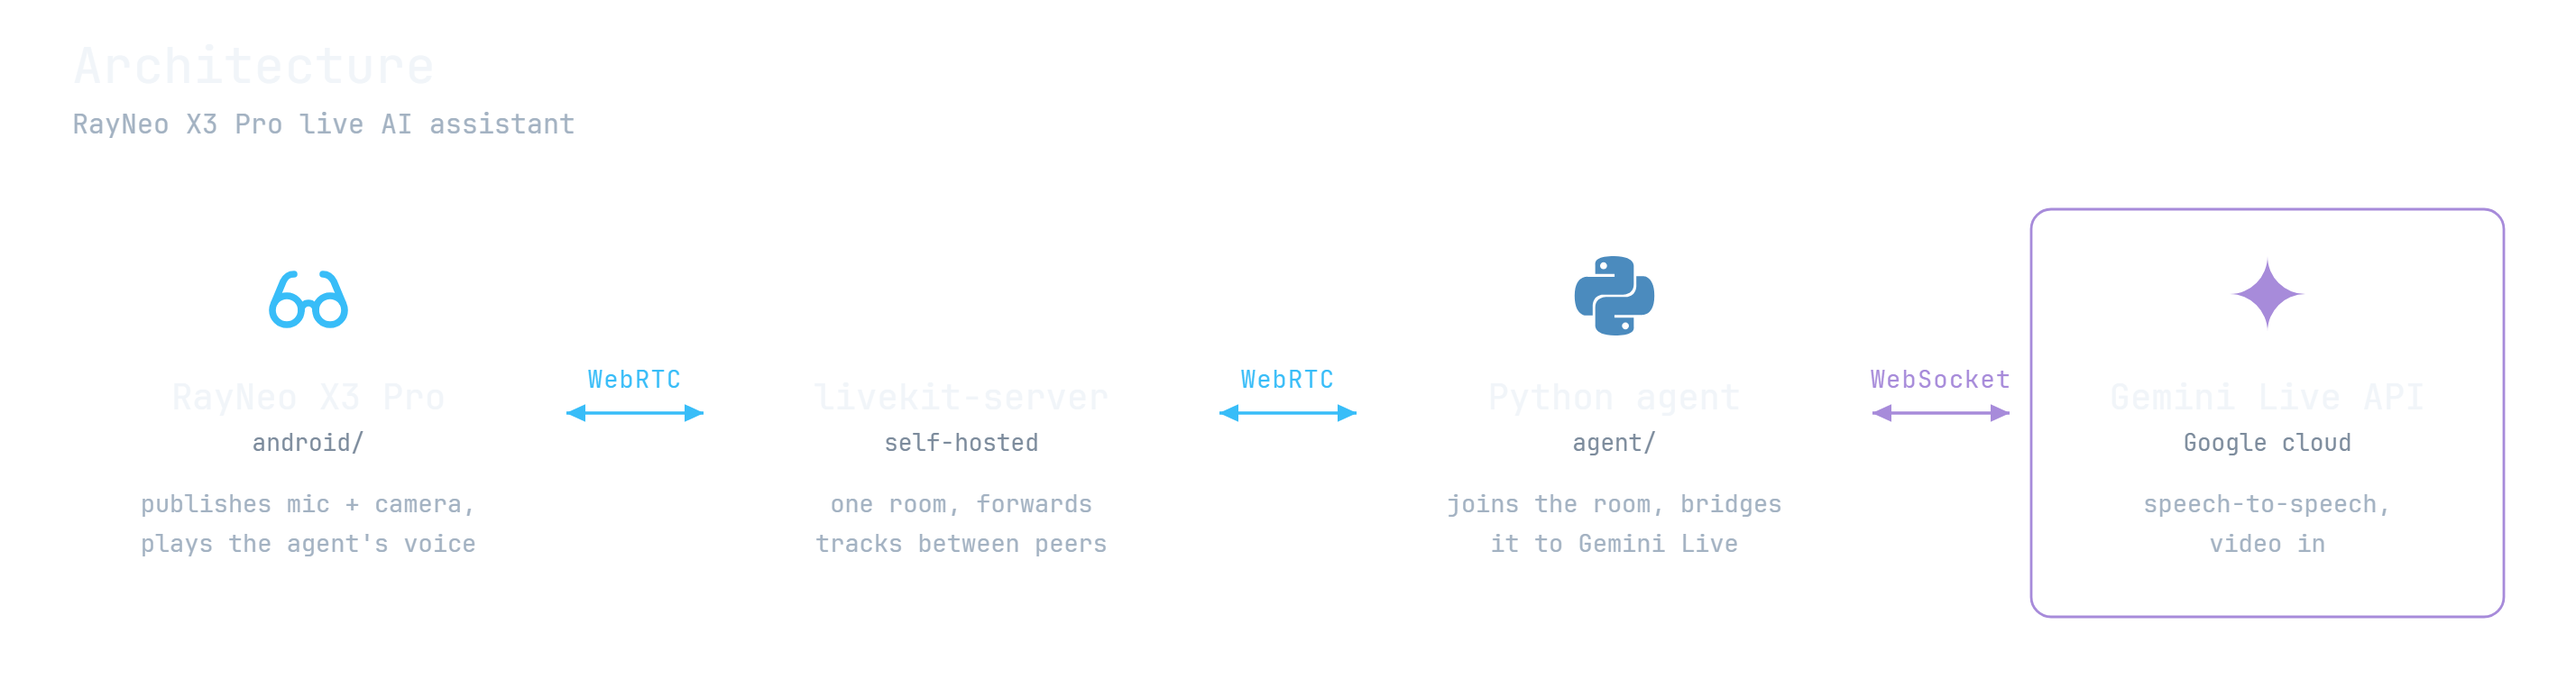
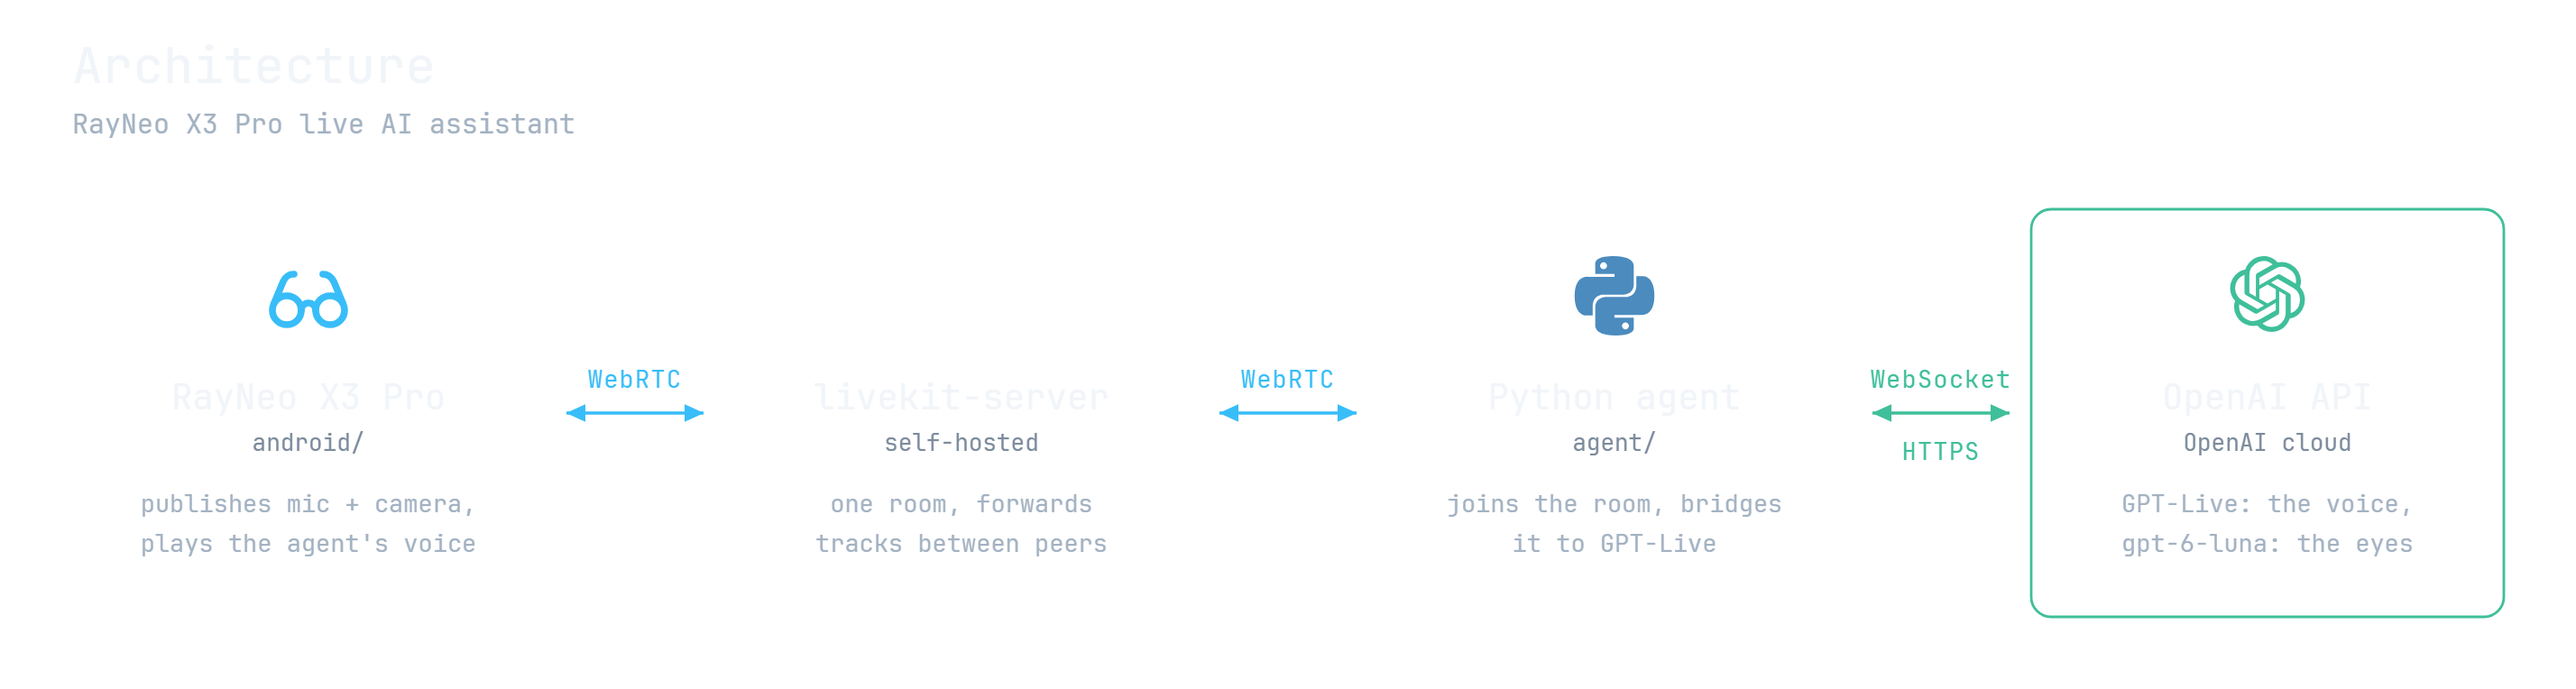
README diagram: OpenAI (GPT-Live voice, gpt-6-luna vision) in place of Gemini Live

diff --git a/docs/make_diagram.py b/docs/make_diagram.py
@@ -40,12 +40,12 @@ H = ROW_Y + CH + PAD
 THEMES = {
     "dark": dict(
         card="#ffffff0a", edge="#ffffff29", text="#f1f5f9", muted="#a3b2c2",
-        dim="#7c8b9c", accent="#38bdf8", gemini="#a78bda",
+        dim="#7c8b9c", accent="#38bdf8", cloud="#3fbf9a",
         livekit="#ffffff", python="#4B8BBE", check="#0b1017",
     ),
     "light": dict(
         card="#0f172a08", edge="#0f172a26", text="#0f172a", muted="#475569",
-        dim="#64748b", accent="#0369a1", gemini="#6d4fa3",
+        dim="#64748b", accent="#0369a1", cloud="#0d8a6a",
         livekit="#0f172a", python="#3776AB", check="#ffffff",
     ),
 }
@@ -79,7 +79,7 @@ def build(t: dict) -> str:
   </marker>
   <marker id="headv" viewBox="0 0 10 10" refX="9" refY="5"
           markerWidth="6.5" markerHeight="6.5" orient="auto-start-reverse">
-    <path d="M0 0.8 L9.2 5 L0 9.2 Z" fill="{t["gemini"]}"/>
+    <path d="M0 0.8 L9.2 5 L0 9.2 Z" fill="{t["cloud"]}"/>
   </marker>
 </defs>''')
 
@@ -97,15 +97,15 @@ def build(t: dict) -> str:
         ("livekit", f'fill="{t["livekit"]}"', 40, "livekit-server",
          "self-hosted", ["one room, forwards", "tracks between peers"]),
         ("python", f'fill="{t["python"]}"', 44, "Python agent", "agent/",
-         ["joins the room, bridges", "it to Gemini Live"]),
-        ("googlegemini", f'fill="{t["gemini"]}"', 42, "Gemini Live API",
-         "Google cloud", ["speech-to-speech,", "video in"]),
+         ["joins the room, bridges", "it to GPT-Live"]),
+        ("openai", f'fill="{t["cloud"]}"', 42, "OpenAI API",
+         "OpenAI cloud", ["GPT-Live: the voice,", "gpt-6-luna: the eyes"]),
     ]
     cols = [PAD + i * (CW + GAP) for i in range(4)]
 
     for x, (name, style, size, title, sub, lines) in zip(cols, nodes):
         cx = x + CW / 2
-        edge = t["gemini"] if name == "googlegemini" else t["edge"]
+        edge = t["cloud"] if name == "openai" else t["edge"]
         add(f'<rect x="{x}" y="{ROW_Y}" width="{CW}" height="{CH}" rx="11" '
             f'fill="{t["card"]}" stroke="{edge}" stroke-width="1.4"/>')
         add(place(name, cx, ROW_Y + 26, size, style))
@@ -118,18 +118,20 @@ def build(t: dict) -> str:
                 f'fill="{t["muted"]}" text-anchor="middle">{line}</text>')
 
     link_y = ROW_Y + CH / 2
-    for i, (label, colour, marker) in enumerate([
-        ("WebRTC", t["accent"], "head"),
-        ("WebRTC", t["accent"], "head"),
-        ("WebSocket", t["gemini"], "headv"),
+    for i, (labels, colour, marker) in enumerate([
+        (["WebRTC"], t["accent"], "head"),
+        (["WebRTC"], t["accent"], "head"),
+        (["WebSocket", "HTTPS"], t["cloud"], "headv"),
     ]):
         x1, x2 = cols[i] + CW + 12, cols[i + 1] - 12
         add(f'<line x1="{x1}" y1="{link_y}" x2="{x2}" y2="{link_y}" '
             f'stroke="{colour}" stroke-width="1.8" '
             f'marker-start="url(#{marker})" marker-end="url(#{marker})"/>')
-        add(f'<text x="{(x1 + x2) / 2}" y="{link_y - 14}" font-size="13.5" '
-            f'letter-spacing="0.6" fill="{colour}" text-anchor="middle">'
-            f'{label}</text>')
+        # first label above the line, a second one below it
+        for label, y in zip(labels, (link_y - 14, link_y + 26)):
+            add(f'<text x="{(x1 + x2) / 2}" y="{y}" font-size="13.5" '
+                f'letter-spacing="0.6" fill="{colour}" text-anchor="middle">'
+                f'{label}</text>')
 
     add("</svg>")
     return "\n".join(out)

diff --git a/README.md b/README.md
@@ -1,15 +1,16 @@
 # RayNeo X3 Pro live AI assistant
 
-A voice-and-vision assistant for RayNeo X3 Pro AR glasses, built on LiveKit and the
-Gemini Live API. The first use case is helping the wearer build with LEGO: the model has
-to see well enough to count the studs on a brick.
+A voice-and-vision assistant for RayNeo X3 Pro AR glasses, built on LiveKit and OpenAI's
+GPT-Live (a Gemini Live path is kept alongside). The first use case is helping the wearer
+build with LEGO: the model has to see well enough to count the studs on a brick.
 
 ## Architecture
 
 <picture>
   <source media="(prefers-color-scheme: dark)" srcset="docs/architecture-dark.png">
   <img alt="Architecture: the glasses and the Python agent meet in one self-hosted
-LiveKit room; the agent alone talks to Gemini Live, over a WebSocket"
+LiveKit room; the agent alone talks to OpenAI: GPT-Live over a WebSocket, the vision
+model over HTTPS"
        src="docs/architecture-light.png">
 </picture>
 
@@ -17,9 +18,10 @@ LiveKit room; the agent alone talks to Gemini Live, over a WebSocket"
 and the PNGs.</sub>
 
 The two halves meet in one place, a LiveKit room. The glasses publish microphone and
-camera tracks into it; the agent joins the same room, forwards audio and video to Gemini
-Live over a WebSocket, and publishes Gemini's speech back as its own audio track. The
-glasses hold no Google credentials and do not know which model is in use.
+camera tracks into it; the agent joins the same room, streams the audio to GPT-Live over a
+WebSocket, sends camera frames to a vision model over HTTPS, and publishes GPT-Live's speech
+back as its own audio track. The glasses hold no model credentials and do not know which
+model is in use.
 
 Three processes, all in one compose project with host networking (WebRTC needs the
 server's UDP ports reachable at the address it advertises; a bridge network only adds NAT):
